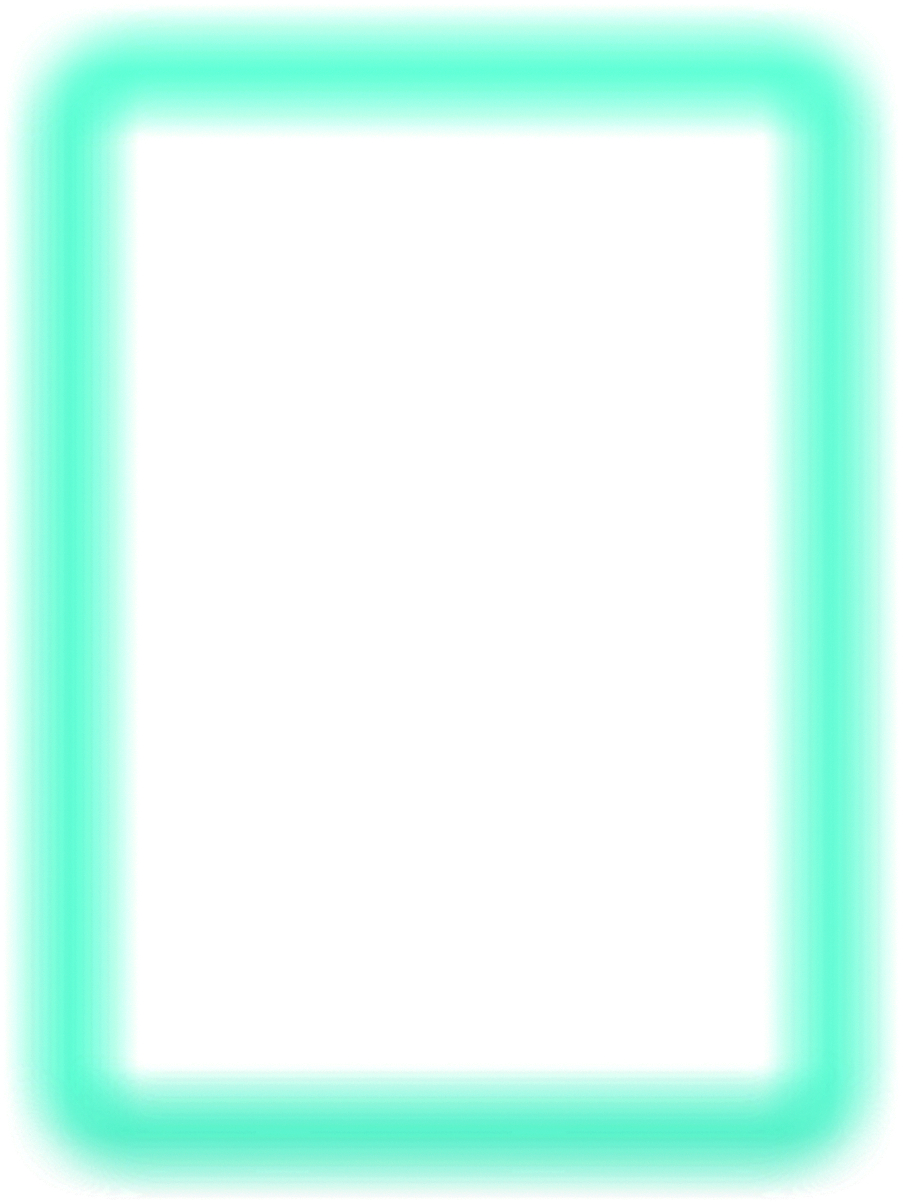
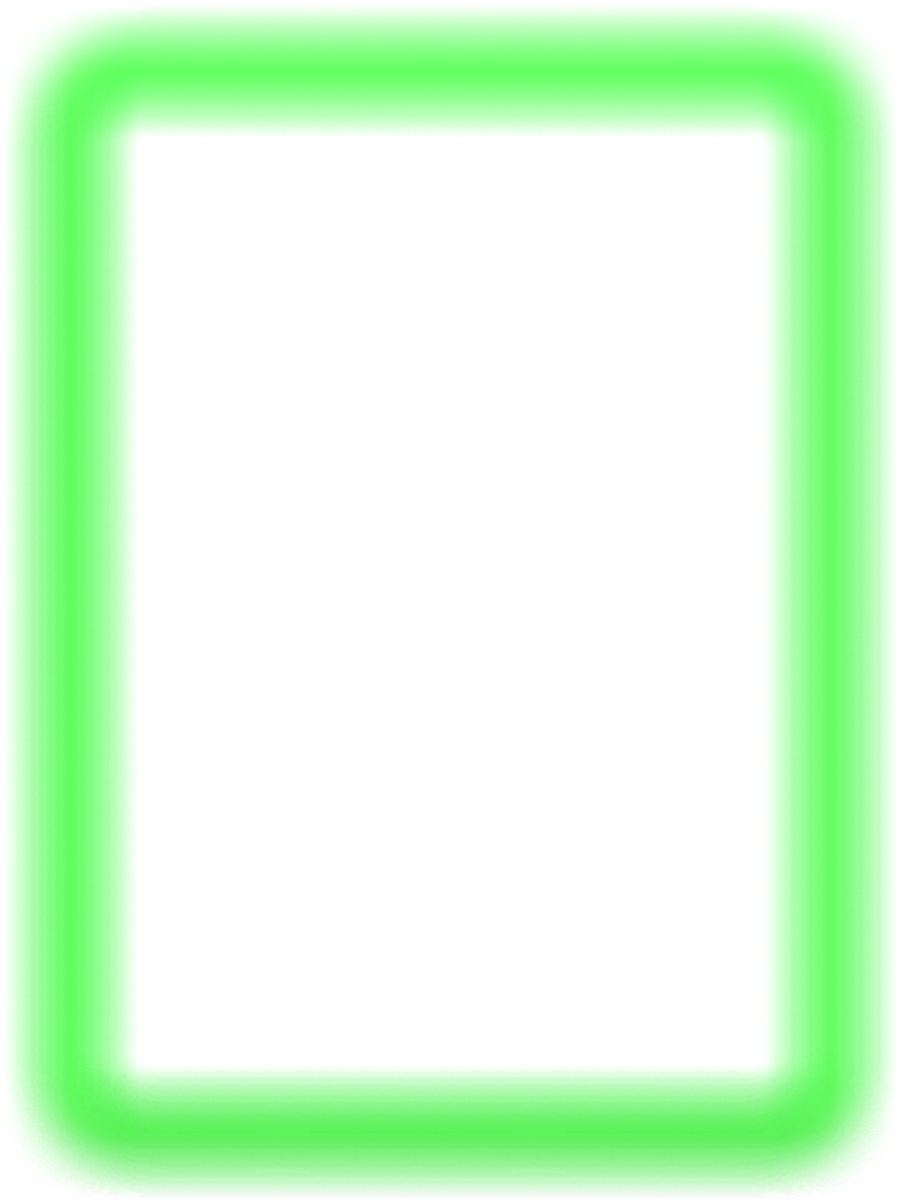
replace emission, add new card types

diff --git a/AlphaEngine_BaseProject/Source/Game/BuffCards.h b/AlphaEngine_BaseProject/Source/Game/BuffCards.h
@@ -10,7 +10,9 @@ enum CARD_TYPE {
 	IRON_DEFENCE,
 	SWITCH_IT_UP,
 	REVITALIZE,
-	SHARPEN
+	SHARPEN,
+	BERSERKER,
+	FEATHERWEIGHT
 };
 
 // Enumeration types for card rarity.
@@ -95,6 +97,8 @@ public:
 		case SWITCH_IT_UP: return "SWITCH_IT_UP";
 		case REVITALIZE: return "REVITALIZE";
 		case SHARPEN: return "SHARPEN";
+		case BERSERKER: return "BERSERKER";
+		case FEATHERWEIGHT: return "FEATHERWEIGHT";
 		default: return "UNKNOWN_TYPE";
 		}
 	}
@@ -110,10 +114,10 @@ public:
 	}
 
 private:
-	static const int UNCOMMON_CARDS = 2; // Number of uncommon cards in the pool.
-	static const int RARE_CARDS = 2; // Number of rare cards in the pool.
-	static const int EPIC_CARDS = 2; // Number of epic cards in the pool.
-	static const int LEGENDARY_CARDS = 1; // Number of legendary cards in the pool.
+	static const int UNCOMMON_CARDS = 20; // Number of uncommon cards in the pool.
+	static const int RARE_CARDS = 20; // Number of rare cards in the pool.
+	static const int EPIC_CARDS = 20; // Number of epic cards in the pool.
+	static const int LEGENDARY_CARDS = 10; // Number of legendary cards in the pool.
 
 	// Flags
 	inline static bool shuffled = false; // To ensure the card shuffle only occurs once per call.
@@ -185,7 +189,7 @@ private:
 
 	// Card texture and mesh
 	inline static AEGfxTexture* cardBackTex = nullptr;
-	static const int UNIQUE_CARD_TEXTURES = 5; // Total number of unique card textures available (for different types and rarities).
+	static const int UNIQUE_CARD_TEXTURES = 20; // Total number of unique card textures available (for different types and rarities).
 	inline static AEGfxTexture* cardFrontTex[UNIQUE_CARD_TEXTURES] = { nullptr }; // 5 different front textures
 	static const int UNIQUE_RARITY_TEXTURES = 4; // Total number of unique rarity textures available (for different rarities).
 	inline static AEGfxTexture* cardRarityTex[UNIQUE_RARITY_TEXTURES] = { nullptr }; // 4 different rarities

diff --git a/AlphaEngine_BaseProject/Source/Game/BuffCards.cpp b/AlphaEngine_BaseProject/Source/Game/BuffCards.cpp
@@ -39,6 +39,8 @@ void BuffCardScreen::Init() {
 	cardFrontTex[SWITCH_IT_UP] = AEGfxTextureLoad("Assets/Switch_It_Up.png");
 	cardFrontTex[REVITALIZE] = AEGfxTextureLoad("Assets/Revitalize.png");
 	cardFrontTex[SHARPEN] = AEGfxTextureLoad("Assets/Sharpen.png");
+	cardFrontTex[BERSERKER] = AEGfxTextureLoad("Assets/Berserker.png");
+	cardFrontTex[FEATHERWEIGHT] = AEGfxTextureLoad("Assets/Featherweight.png");
 
 	cardRarityTex[RARITY_UNCOMMON] = AEGfxTextureLoad("Assets/Uncommon_Emission.png");
 	cardRarityTex[RARITY_RARE] = AEGfxTextureLoad("Assets/Rare_Emission.png");
@@ -187,6 +189,8 @@ CARD_TYPE BuffCardManager::GetCardType(std::string typeStr) {
 	else if (typeStr == "SWITCH_IT_UP") return SWITCH_IT_UP;
 	else if (typeStr == "REVITALIZE") return REVITALIZE;
 	else if (typeStr == "SHARPEN") return SHARPEN;
+	else if (typeStr == "BERSERKER") return BERSERKER;
+	else if (typeStr == "FEATHERWEIGHT") return FEATHERWEIGHT;
 	else return HERMES_FAVOR; // default fallback
 }
 CARD_RARITY BuffCardManager::GetCardRarity(std::string rarityStr) {

diff --git a/AlphaEngine_BaseProject/Source/Game/UI.cpp b/AlphaEngine_BaseProject/Source/Game/UI.cpp
@@ -19,7 +19,7 @@ void UI::Update() {
 }
 void UI::Render() {
 	damageTextSpawner.Render();
-	//BuffCardScreen::Render();
+	BuffCardScreen::Render();
 }
 void UI::Exit() {
 	AEGfxDestroyFont(damageTextFont);
